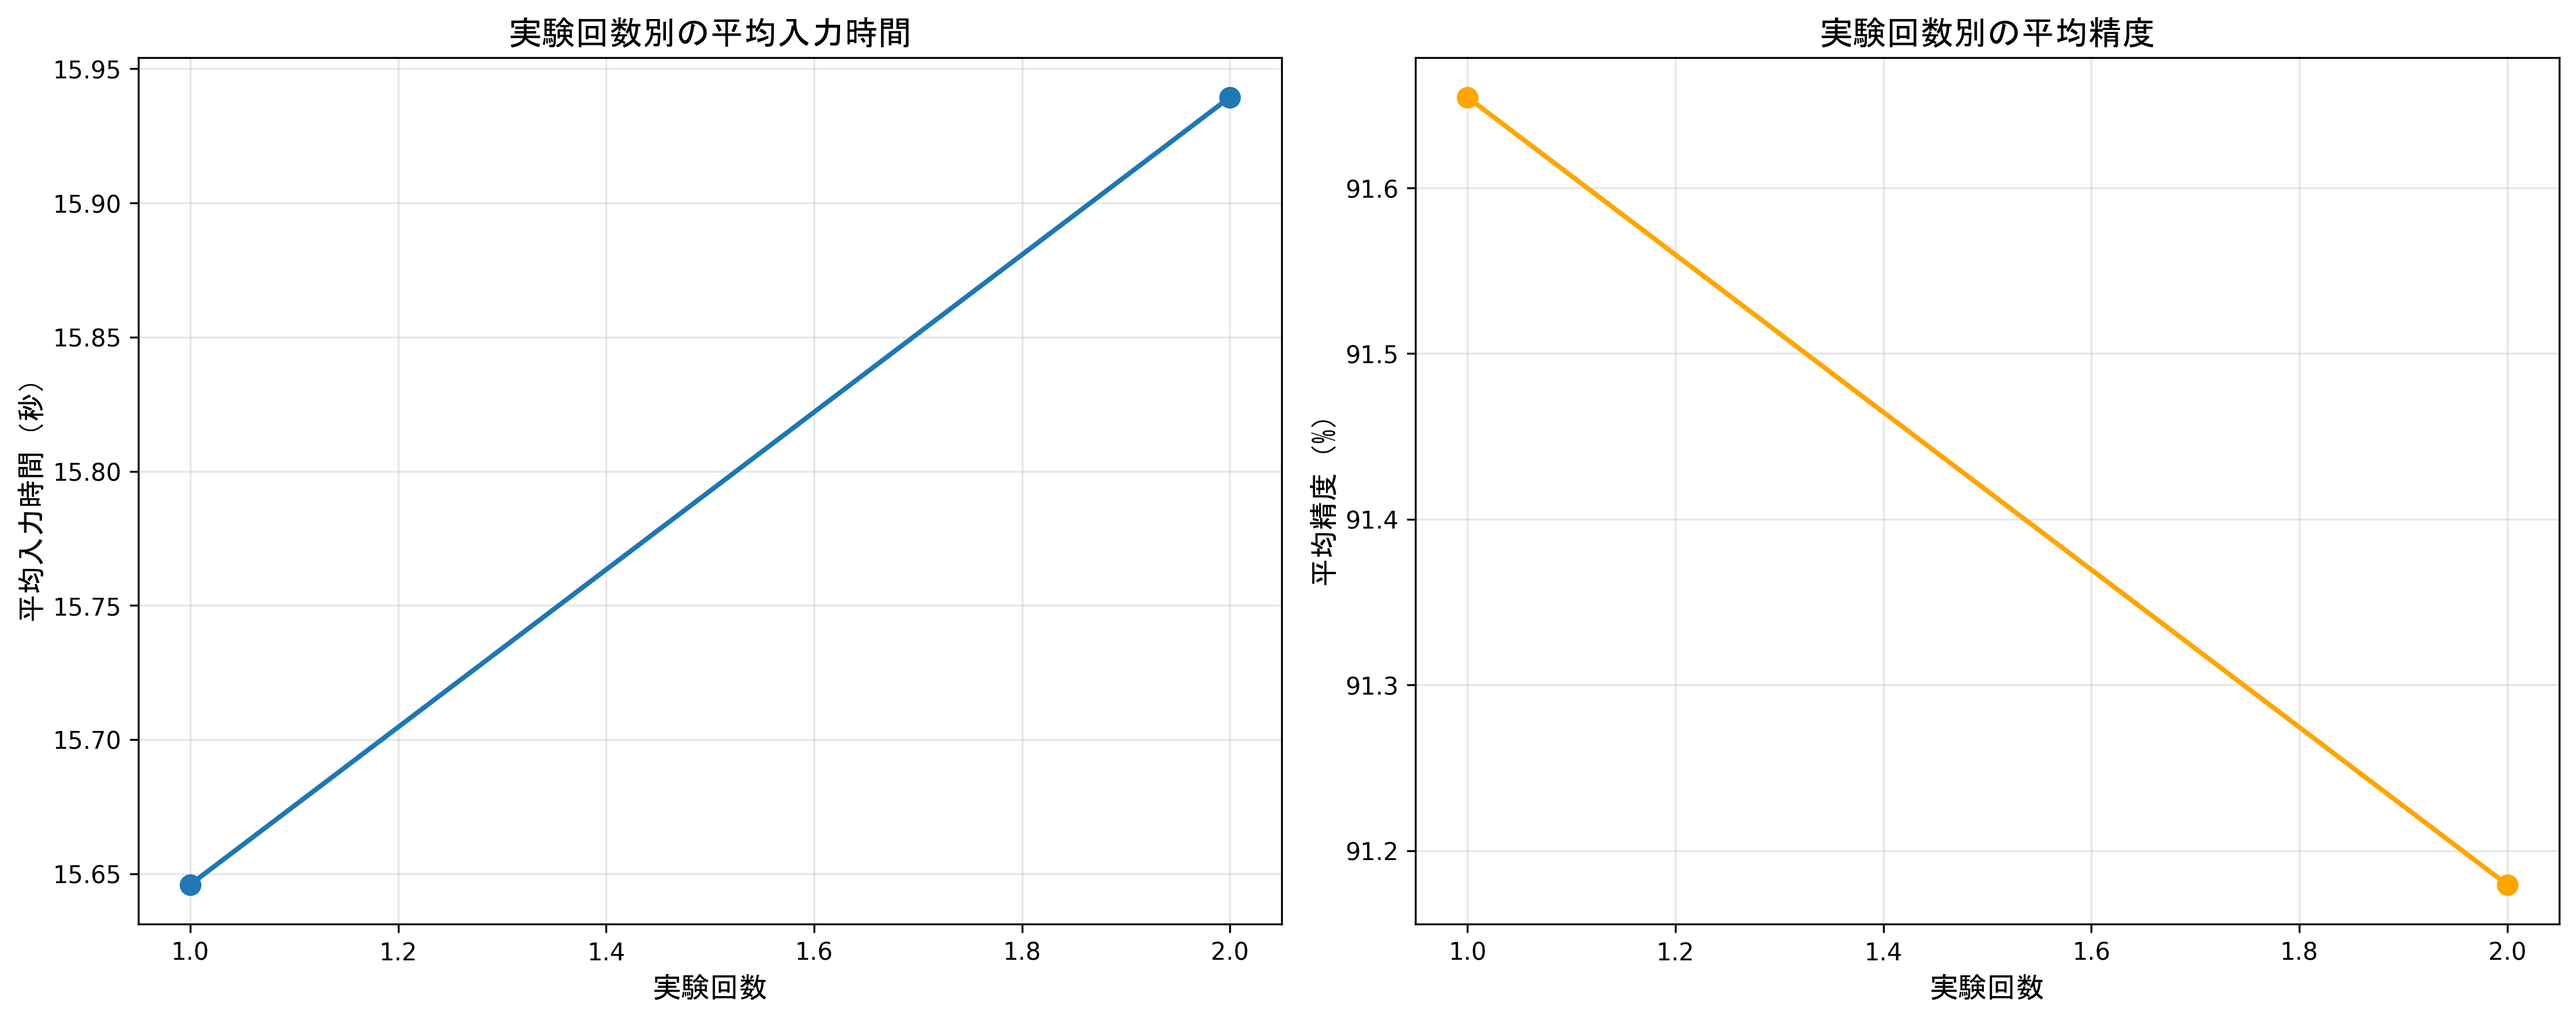
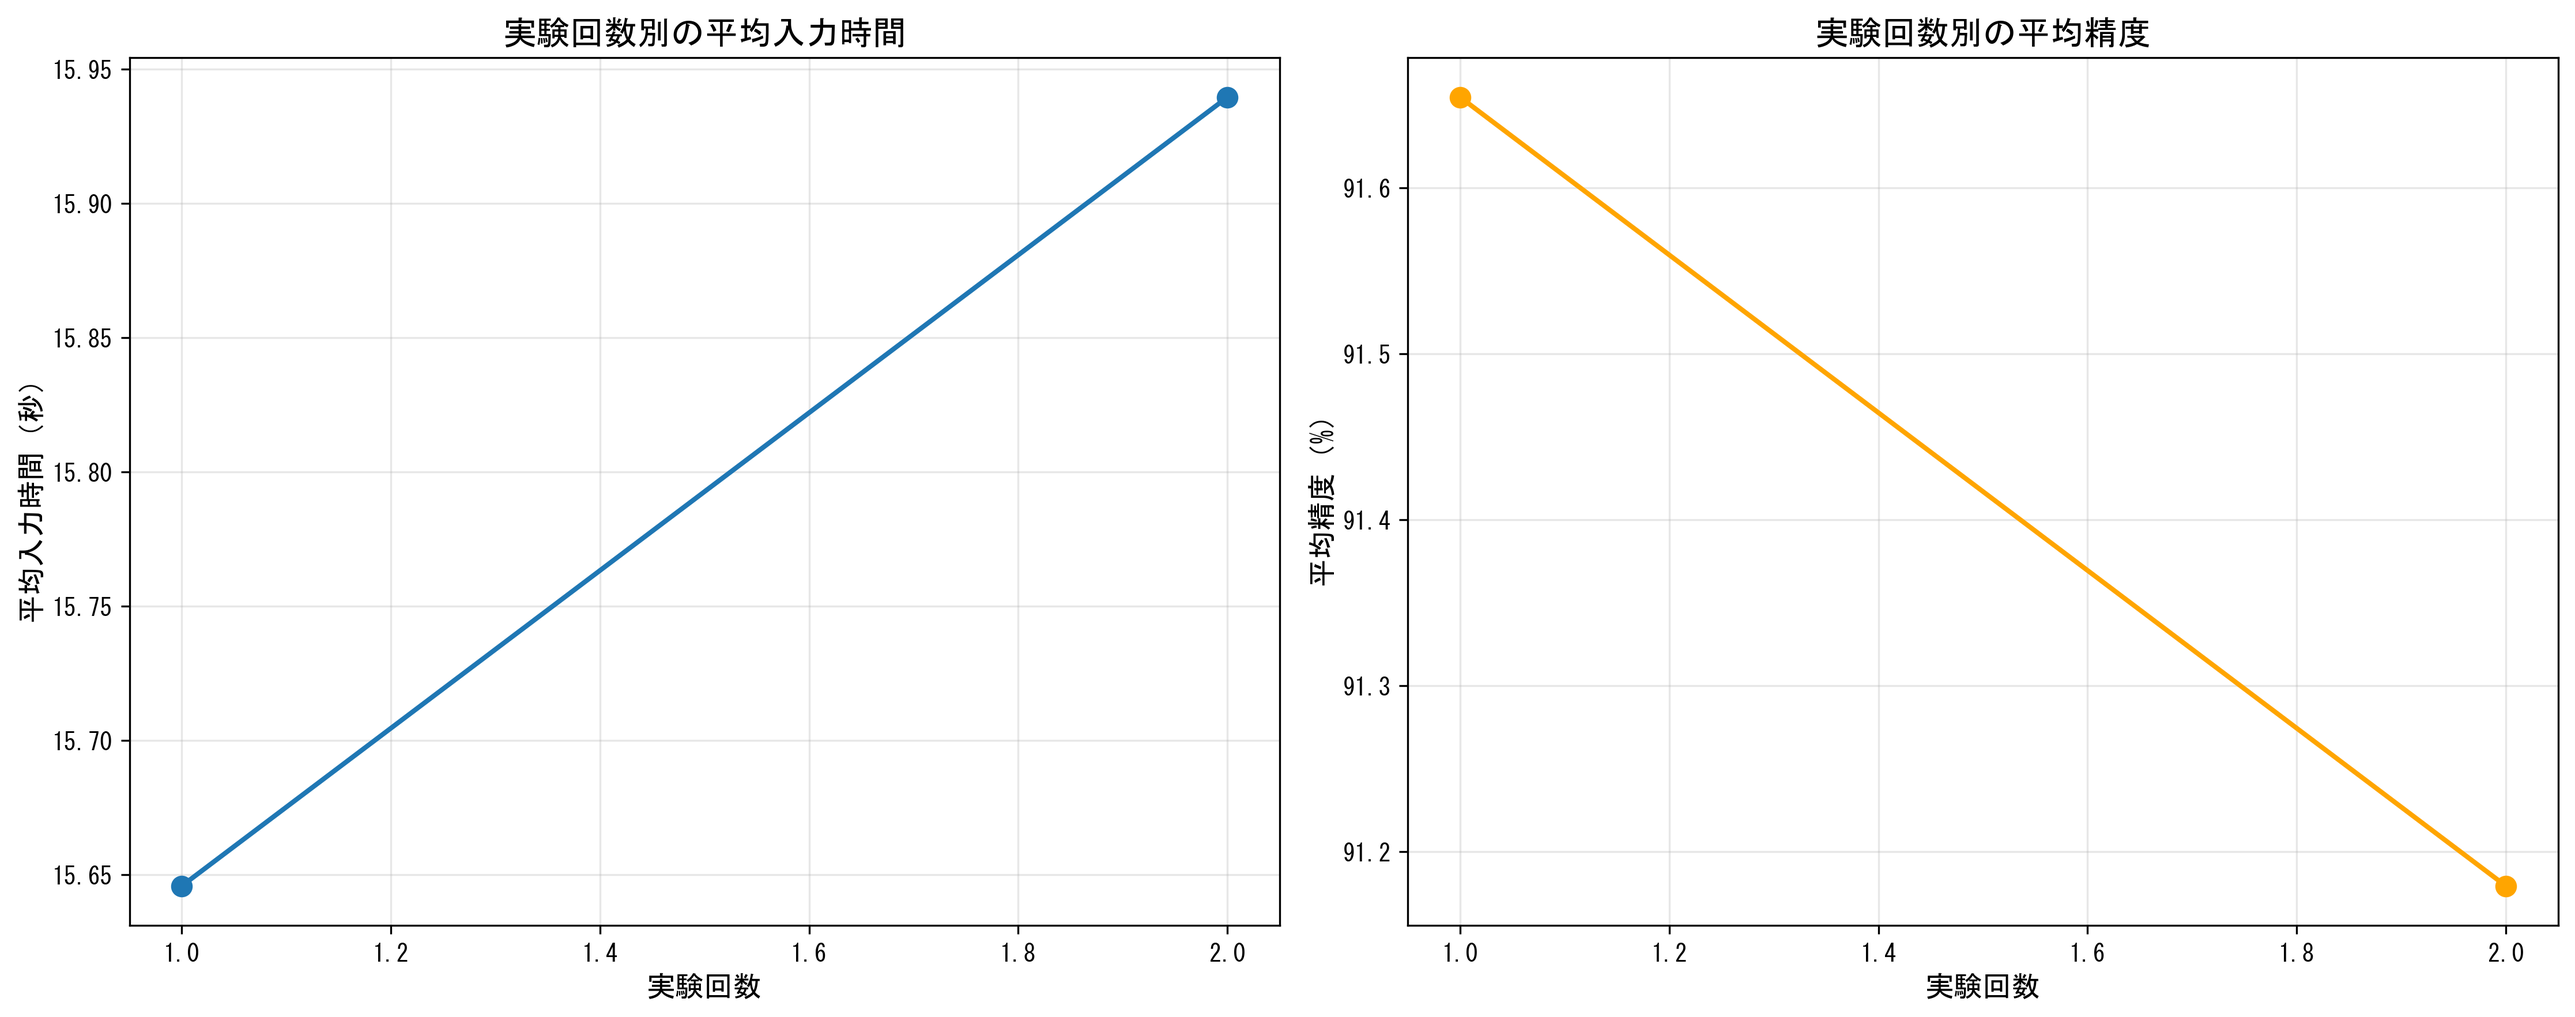
表，グラフの成型

diff --git a/experimental data/0627-myself/src/analyze_experiment_data.py b/experimental data/0627-myself/src/analyze_experiment_data.py
@@ -7,6 +7,10 @@ from pathlib import Path
 
 font_name = "MS Gothic"
 
+# matplotlibの日本語フォント設定
+plt.rcParams['font.family'] = font_name
+plt.rcParams['axes.unicode_minus'] = False  # マイナス記号の文字化け防止
+
 # データディレクトリの設定 - 絶対パスを使用
 current_dir = Path(__file__).parent
 data_dir = current_dir / ".." / "measurement data"
@@ -142,9 +146,22 @@ def create_summary_table():
     
     df = pd.DataFrame(summary_data)
     
-    # CSVファイルとして保存
+    # CSVファイルとして保存（保存時のみ列名を日本語に変更）
+    df_japanese = df.rename(columns={
+        'experiment_id': '実験ID',
+        'sentence_index': '文番号',
+        'original_text': '元テキスト',
+        'input_text': '入力テキスト',
+        'input_time': '入力時間（秒）',
+        'speed': '入力速度（文字/分）',
+        'accuracy': '正解率（%）',
+        'msd': 'MSD',
+        'cer': 'CER',
+        'char_count': '文字数'
+    })
+    
     output_file = output_dir / "experiment_summary.csv"
-    df.to_csv(output_file, index=False, encoding='utf-8-sig')
+    df_japanese.to_csv(output_file, index=False, encoding='utf-8-sig')
     
     return df
 
@@ -200,6 +217,8 @@ def create_visualizations(char_df, summary_df, direction_df):
         print("警告: データが不足しているため、グラフを作成できません")
         return
     
+    # 文字行の順序を定義
+    char_lines_order = ['あ行', 'か行', 'さ行', 'た行', 'な行', 'は行', 'ま行', 'や行', 'ら行', 'わ行']
     
     # 2. 文字行別の正解率
     plt.figure(figsize=(12, 8))
@@ -211,7 +230,7 @@ def create_visualizations(char_df, summary_df, direction_df):
         plt.title('文字行別の正解率', fontname=font_name, fontsize=16)
         plt.xlabel('文字行', fontname=font_name, fontsize=14)
         plt.ylabel('正解率（%）', fontname=font_name, fontsize=14)
-        plt.xticks(rotation=45)
+        plt.xticks(rotation=45, fontname=font_name)
         
         # バーの上に値を表示
         for bar, value in zip(bars, accuracy_by_line.values):
@@ -233,6 +252,7 @@ def create_visualizations(char_df, summary_df, direction_df):
         plt.title('移動方向別の1文字あたりの入力時間', fontname=font_name, fontsize=16)
         plt.xlabel('移動方向', fontname=font_name, fontsize=14)
         plt.ylabel('入力時間（秒/文字）', fontname=font_name, fontsize=14)
+        plt.xticks(fontname=font_name)
         
         # バーの上に値を表示
         for bar, value, std in zip(bars, direction_means.values, direction_stds.values):
@@ -410,6 +430,7 @@ def main():
             'accuracy': ['mean', 'std'],
             'msd': ['mean', 'std']
         }).round(3)
+        direction_stats.columns = ['平均1文字時間', '1文字時間標準偏差', '平均正解率', '正解率標準偏差', '平均MSD', 'MSD標準偏差']
         direction_stats.to_csv(output_dir / "direction_statistics.csv", encoding='utf-8-sig')
         
         # グラフの作成
